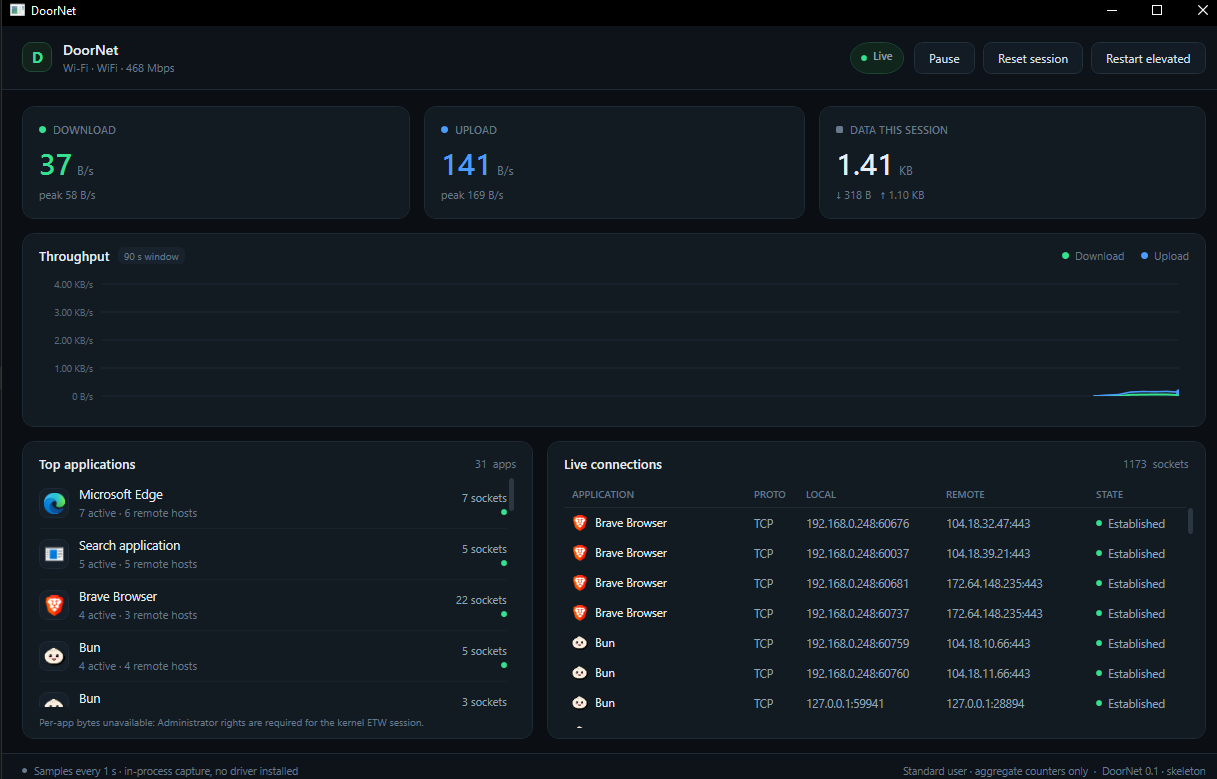
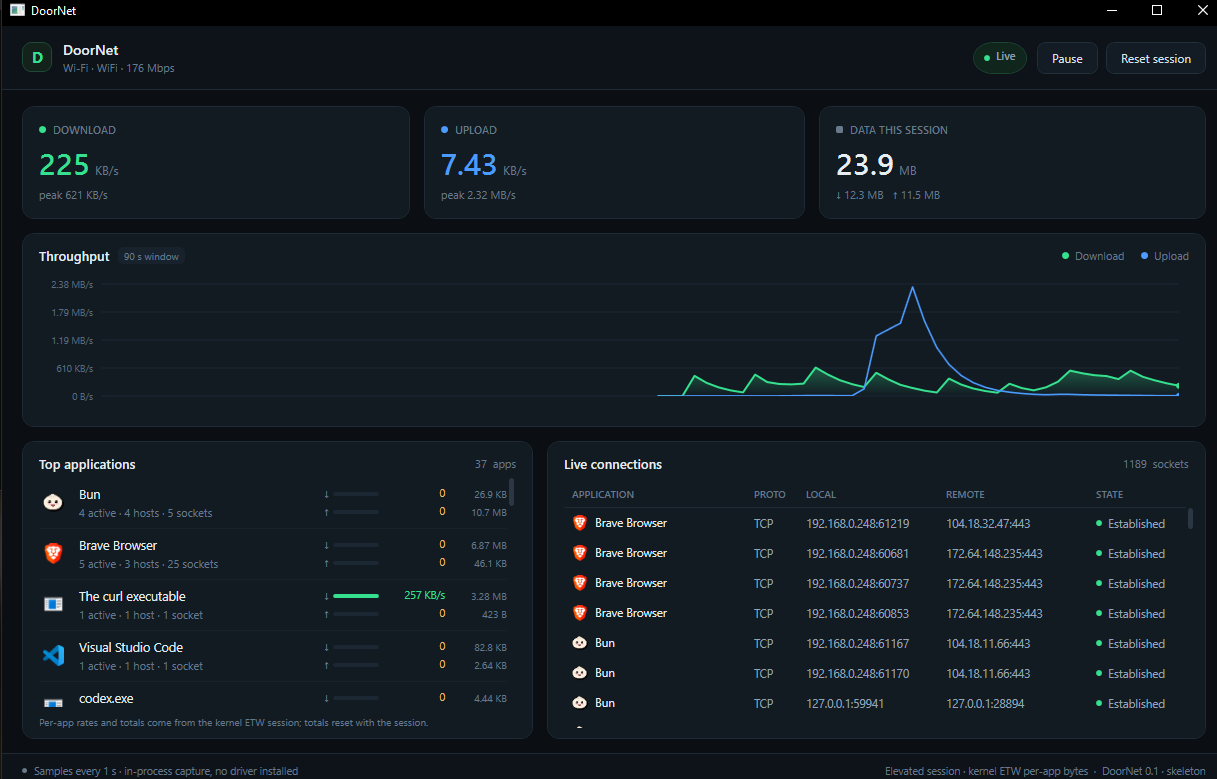
Show per-app session data totals beside each rate
Accumulate download/upload bytes per (pid, image) in Core (UsageTotals) so the dashboard can show how much data each application consumed this session. Totals are muted next to the live rate, reset with Reset session, pruned after 10 minutes of inactivity, and Top applications now sorts by data consumed for a stable order instead of jumping every second.

diff --git a/src/DoorNet.App/MainWindow.xaml b/src/DoorNet.App/MainWindow.xaml
@@ -369,6 +369,14 @@
                                                                         </Style>
                                                                     </TextBlock.Style>
                                                                 </TextBlock>
+                                                                <TextBlock Text="{Binding DownloadTotalText}"
+                                                                           FontSize="10"
+                                                                           Width="56"
+                                                                           TextAlignment="Right"
+                                                                           VerticalAlignment="Center"
+                                                                           Foreground="{StaticResource TextMutedBrush}"
+                                                                           Margin="6,0,0,0"
+                                                                           ToolTip="Downloaded since DoorNet started" />
                                                             </StackPanel>
 
                                                             <StackPanel Orientation="Horizontal" HorizontalAlignment="Right" Margin="0,3,0,0">
@@ -400,6 +408,14 @@
                                                                         </Style>
                                                                     </TextBlock.Style>
                                                                 </TextBlock>
+                                                                <TextBlock Text="{Binding UploadTotalText}"
+                                                                           FontSize="10"
+                                                                           Width="56"
+                                                                           TextAlignment="Right"
+                                                                           VerticalAlignment="Center"
+                                                                           Foreground="{StaticResource TextMutedBrush}"
+                                                                           Margin="6,0,0,0"
+                                                                           ToolTip="Uploaded since DoorNet started" />
                                                             </StackPanel>
                                                         </StackPanel>
 

diff --git a/src/DoorNet.App/ViewModels/MainViewModel.cs b/src/DoorNet.App/ViewModels/MainViewModel.cs
@@ -28,6 +28,7 @@ public sealed class MainViewModel : ObservableObject, IDisposable
     private readonly IPerAppUsageSource _perAppSource;
     private readonly ThroughputSampler _sampler = new();
     private readonly RingBuffer<ThroughputPoint> _history = new(HistoryCapacity);
+    private readonly UsageTotals _usageTotals = new();
     private readonly DispatcherTimer _timer;
 
     private bool _tickRunning;
@@ -84,7 +85,7 @@ public sealed class MainViewModel : ObservableObject, IDisposable
             : "Standard user · aggregate counters only";
 
         PerAppNote = _perAppSource.IsAvailable
-            ? "Per-app bytes measured by the kernel ETW session (NetworkTCPIP)."
+            ? "Per-app rates and totals come from the kernel ETW session; totals reset with the session."
             : $"Per-app bytes unavailable: {_perAppSource.UnavailableReason ?? "unknown reason."}";
 
         _timer = new DispatcherTimer(DispatcherPriority.Background)
@@ -244,13 +245,23 @@ public sealed class MainViewModel : ObservableObject, IDisposable
 
         var traffic = _perAppSource.Drain();
         var aggregated = AppUsageAggregator.Aggregate(connections, traffic);
+        var showMeters = _perAppSource.IsAvailable;
 
-        // With byte usage available, "top" means bytes moved; otherwise the best we can
-        // honestly show is how many active sockets a process holds.
-        var ordered = _perAppSource.IsAvailable
+        if (showMeters)
+        {
+            var now = DateTime.UtcNow;
+            foreach (var app in aggregated)
+                _usageTotals.Add(app, now);
+
+            _usageTotals.Prune(now, TimeSpan.FromMinutes(10));
+        }
+
+        // With byte usage available, "top" means data consumed this session (stable order,
+        // no row dancing every second). Without it, the best honest signal is socket count.
+        var ordered = showMeters
             ? aggregated
-                .OrderByDescending(a => a.BytesSent + a.BytesReceived)
-                .ThenByDescending(a => a.ActiveConnectionCount)
+                .OrderByDescending(SessionBytes)
+                .ThenByDescending(a => a.BytesReceived + a.BytesSent)
             : aggregated
                 .OrderByDescending(a => a.ActiveConnectionCount)
                 .ThenByDescending(a => a.ConnectionCount);
@@ -265,15 +276,18 @@ public sealed class MainViewModel : ObservableObject, IDisposable
 
         var maxDownload = rates.Count == 0 ? 0 : rates.Max(r => r.Download);
         var maxUpload = rates.Count == 0 ? 0 : rates.Max(r => r.Upload);
-        var showMeters = _perAppSource.IsAvailable;
 
         var apps = new List<AppRow>(usage.Count);
         for (var i = 0; i < usage.Count; i++)
         {
+            var (totalDownload, totalUpload) = _usageTotals.Get(usage[i].ProcessId, usage[i].ProcessName);
+
             apps.Add(ToAppRow(
                 usage[i],
                 rates[i].Download,
                 rates[i].Upload,
+                totalDownload,
+                totalUpload,
                 maxDownload,
                 maxUpload,
                 showMeters));
@@ -299,6 +313,8 @@ public sealed class MainViewModel : ObservableObject, IDisposable
         AppUsage app,
         double downloadRate,
         double uploadRate,
+        long totalDownload,
+        long totalUpload,
         double maxDownload,
         double maxUpload,
         bool showMeters)
@@ -333,6 +349,8 @@ public sealed class MainViewModel : ObservableObject, IDisposable
             detail,
             downloadIdle ? "0" : ByteFormatter.FormatRate(downloadRate),
             uploadIdle ? "0" : ByteFormatter.FormatRate(uploadRate),
+            showMeters ? ByteFormatter.FormatBytes(totalDownload) : string.Empty,
+            showMeters ? ByteFormatter.FormatBytes(totalUpload) : string.Empty,
             MeterMath.Scale(downloadRate, maxDownload),
             MeterMath.Scale(uploadRate, maxUpload),
             downloadIdle,
@@ -392,10 +410,17 @@ public sealed class MainViewModel : ObservableObject, IDisposable
         }
     }
 
+    private long SessionBytes(AppUsage app)
+    {
+        var (download, upload) = _usageTotals.Get(app.ProcessId, app.ProcessName);
+        return download + upload;
+    }
+
     private void ResetSession()
     {
         _sampler.Reset();
         _history.Clear();
+        _usageTotals.Clear();
         _peakDown = 0;
         _peakUp = 0;
 

diff --git a/tests/DoorNet.Core.Tests/UsageTotalsTests.cs b/tests/DoorNet.Core.Tests/UsageTotalsTests.cs
@@ -1,0 +1,89 @@
+using DoorNet.Core.Aggregation;
+
+namespace DoorNet.Core.Tests;
+
+public class UsageTotalsTests
+{
+    private static readonly DateTime Now = new(2026, 11, 21, 12, 0, 0, DateTimeKind.Utc);
+
+    [Fact]
+    public void AccumulatesPerProcess()
+    {
+        var totals = new UsageTotals();
+
+        totals.Add(10, "chrome.exe", 1000, 200, Now);
+        totals.Add(10, "chrome.exe", 500, 50, Now);
+
+        Assert.Equal((1500L, 250L), totals.Get(10, "chrome.exe"));
+    }
+
+    [Fact]
+    public void SamePidWithDifferentName_DoesNotShareTotals()
+    {
+        var totals = new UsageTotals();
+
+        totals.Add(10, "chrome.exe", 1000, 0, Now);
+        totals.Add(10, "backup.exe", 7, 0, Now);
+
+        Assert.Equal((1000L, 0L), totals.Get(10, "chrome.exe"));
+        Assert.Equal((7L, 0L), totals.Get(10, "backup.exe"));
+        Assert.Equal(2, totals.Count);
+    }
+
+    [Fact]
+    public void UnknownProcess_ReturnsZeros()
+    {
+        var totals = new UsageTotals();
+
+        Assert.Equal((0L, 0L), totals.Get(99, "missing.exe"));
+    }
+
+    [Fact]
+    public void NoBytes_DoesNotCreateAnEntry()
+    {
+        var totals = new UsageTotals();
+
+        totals.Add(10, "idle.exe", 0, 0, Now);
+
+        Assert.Equal(0, totals.Count);
+    }
+
+    [Fact]
+    public void Clear_ResetsEverything()
+    {
+        var totals = new UsageTotals();
+        totals.Add(10, "chrome.exe", 1000, 200, Now);
+
+        totals.Clear();
+
+        Assert.Equal(0, totals.Count);
+        Assert.Equal((0L, 0L), totals.Get(10, "chrome.exe"));
+    }
+
+    [Fact]
+    public void Prune_KeepsRecentEntriesAndDropsStaleOnes()
+    {
+        var totals = new UsageTotals();
+        var old = Now.AddMinutes(-30);
+
+        totals.Add(1, "old.exe", 100, 0, old);
+        totals.Add(2, "new.exe", 100, 0, Now);
+        totals.Add(3, "new2.exe", 100, 0, Now);
+
+        totals.Prune(Now, TimeSpan.FromMinutes(10), softLimit: 1);
+
+        Assert.Equal(2, totals.Count);
+        Assert.Equal((0L, 0L), totals.Get(1, "old.exe"));
+    }
+
+    [Fact]
+    public void Prune_DoesNothingBelowSoftLimit()
+    {
+        var totals = new UsageTotals();
+        totals.Add(1, "old.exe", 100, 0, Now.AddDays(-30));
+
+        totals.Prune(Now, TimeSpan.FromMinutes(10), softLimit: 512);
+
+        Assert.Equal(1, totals.Count);
+    }
+}

diff --git a/src/DoorNet.Core/Aggregation/UsageTotals.cs b/src/DoorNet.Core/Aggregation/UsageTotals.cs
@@ -1,0 +1,72 @@
+using DoorNet.Core.Models;
+
+namespace DoorNet.Core.Aggregation;
+
+/// <summary>
+/// Accumulates per-application byte totals for the current session. Keyed by process id
+/// *and* image name so a recycled PID does not inherit another program's history.
+/// </summary>
+public sealed class UsageTotals
+{
+    private readonly Dictionary<Key, Entry> _entries = new();
+
+    public int Count => _entries.Count;
+
+    public void Add(AppUsage usage, DateTime utcNow) =>
+        Add(usage.ProcessId, usage.ProcessName, usage.BytesReceived, usage.BytesSent, utcNow);
+
+    public void Add(int processId, string processName, long downloadBytes, long uploadBytes, DateTime utcNow)
+    {
+        if (downloadBytes <= 0 && uploadBytes <= 0)
+            return;
+
+        var key = new Key(processId, processName ?? string.Empty);
+        if (!_entries.TryGetValue(key, out var entry))
+        {
+            entry = new Entry();
+            _entries[key] = entry;
+        }
+
+        entry.Download += Math.Max(0, downloadBytes);
+        entry.Upload += Math.Max(0, uploadBytes);
+        entry.LastSeenUtc = utcNow;
+    }
+
+    public (long Download, long Upload) Get(int processId, string processName)
+    {
+        var key = new Key(processId, processName ?? string.Empty);
+        return _entries.TryGetValue(key, out var entry)
+            ? (entry.Download, entry.Upload)
+            : (0, 0);
+    }
+
+    public void Clear() => _entries.Clear();
+
+    /// <summary>
+    /// Drops entries idle for longer than <paramref name="maxAge"/> once the table grows
+    /// past <paramref name="softLimit"/>, so long sessions with heavy PID churn stay bounded.
+    /// </summary>
+    public void Prune(DateTime utcNow, TimeSpan maxAge, int softLimit = 512)
+    {
+        if (_entries.Count <= softLimit)
+            return;
+
+        var cutoff = utcNow - maxAge;
+        var stale = _entries
+            .Where(pair => pair.Value.LastSeenUtc < cutoff)
+            .Select(pair => pair.Key)
+            .ToList();
+
+        foreach (var key in stale)
+            _entries.Remove(key);
+    }
+
+    private readonly record struct Key(int ProcessId, string ProcessName);
+
+    private sealed class Entry
+    {
+        public long Download;
+        public long Upload;
+        public DateTime LastSeenUtc;
+    }
+}

diff --git a/src/DoorNet.App/ViewModels/Rows.cs b/src/DoorNet.App/ViewModels/Rows.cs
@@ -38,6 +38,8 @@ public sealed record AppRow(
     string DetailText,
     string DownloadText,
     string UploadText,
+    string DownloadTotalText,
+    string UploadTotalText,
     double DownloadScale,
     double UploadScale,
     bool DownloadIdle,

diff --git a/README.md b/README.md
@@ -48,6 +48,7 @@ byte formatting, per-app aggregation, traffic-only rows, and loopback filtering.
 | 90 s throughput chart | In-memory ring buffer, custom-drawn WPF control | none |
 | Top applications | `GetExtendedTcpTable` / `GetExtendedUdpTable` grouped by owning PID | none |
 | Per-app byte rates | Kernel ETW, `Microsoft-Windows-Kernel-Network` (`NetworkTCPIP`) | **admin** |
+| Per-app data totals | Accumulated per `(pid, image)` for the session, shown beside each rate | **admin** |
 | Live connections | Same tables (IPv4 + IPv6, TCP + UDP) | none |
 
 Three deliberate correctness decisions:
